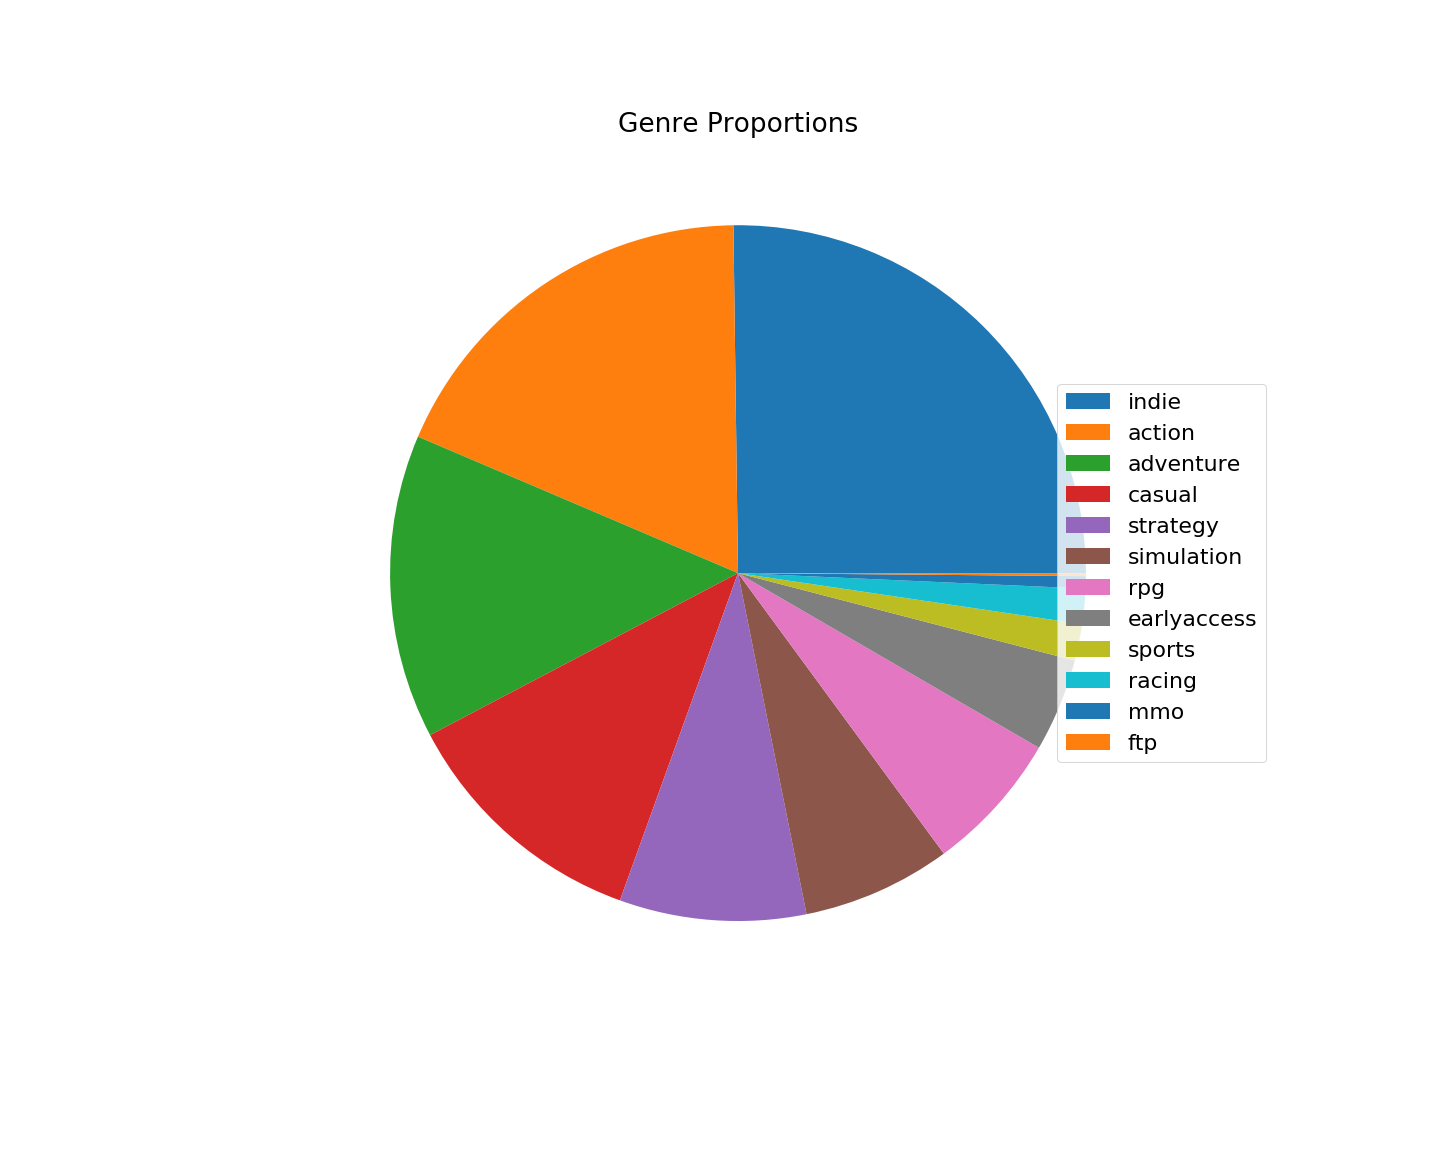
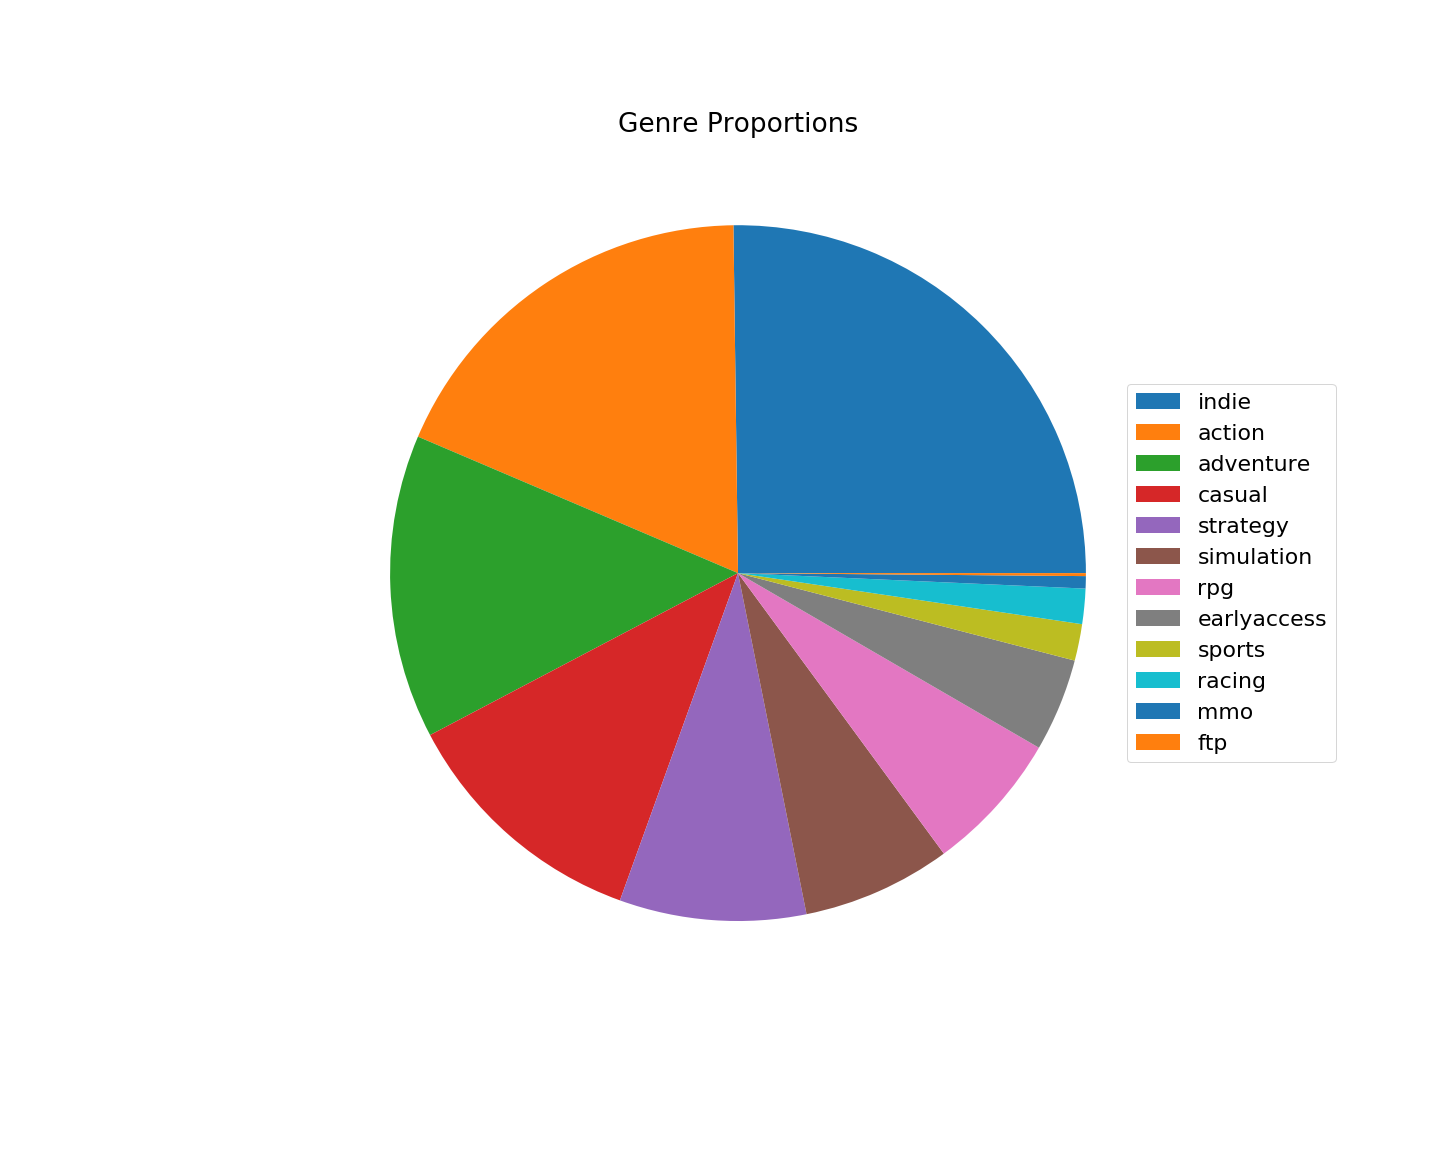
Fixed image legend

Changed region(s): [[0.7188, 0.3438, 0.9375, 0.6562]]

diff --git a/Graph_Visuals.py b/Graph_Visuals.py
@@ -40,7 +40,7 @@ plt.title('Genre Proportions')
 names = list(data.keys())
 values = list(data.values())
 axs.pie(values)
-axs.legend(loc='right',bbox_to_anchor=(1.12, .5),labels=names)
+axs.legend(loc='right',bbox_to_anchor=(1.2, .5),labels=names)
 plt.savefig('images/GenreFrequencyPie.png')
 
 
